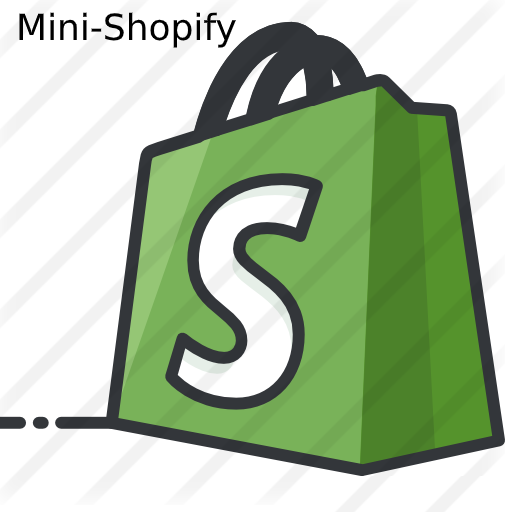
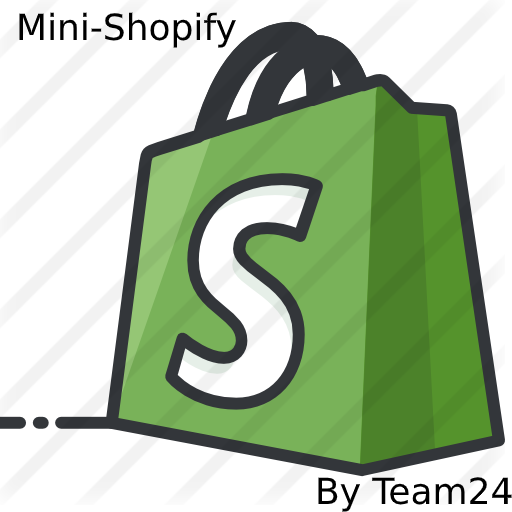
a bit of change

Changed region(s): [[0.5938, 0.9062, 1.0, 1.0]]

diff --git a/src/main/resources/templates/registration.html b/src/main/resources/templates/registration.html
@@ -39,7 +39,7 @@
     </div>
 
     <footer class="footer">
-        <span class="developed-by">Developed by <em><b>Aryan Rashidi-Tabrizi</b></em></span>
+        <span class="developed-by">Developed by <em><b>Team 24</b></em></span>
     </footer>
 
 </body>

diff --git a/src/main/resources/templates/shopList.html b/src/main/resources/templates/shopList.html
@@ -51,7 +51,7 @@
     </div>
 
     <footer class="footer">
-        <span class="developed-by">Developed by <em><b>Aryan Rashidi-Tabrizi</b></em></span>
+        <span class="developed-by">Developed by <em><b>Team 24</b></em></span>
     </footer>
 
 </body>

diff --git a/src/main/resources/templates/error.html b/src/main/resources/templates/error.html
@@ -23,7 +23,7 @@
 </div>
 
 <footer class="footer">
-    <span class="developed-by">Developed by <em><b>Aryan Rashidi-Tabrizi</b></em></span>
+    <span class="developed-by">Developed by <em><b>Team 24</b></em></span>
 </footer>
 </body>
 </html>

diff --git a/src/main/resources/templates/manager.html b/src/main/resources/templates/manager.html
@@ -67,7 +67,7 @@
 </div>
 
 <footer class="footer">
-    <span class="developed-by">Developed by <em><b>Aryan Rashidi-Tabrizi</b></em></span>
+    <span class="developed-by">Developed by <em><b>Team 24</b></em></span>
 </footer>
 </body>
 </html>

diff --git a/src/main/resources/templates/shopManager.html b/src/main/resources/templates/shopManager.html
@@ -62,7 +62,7 @@
 </div>
 
 <footer class="footer">
-    <span class="developed-by">Developed by <em><b>Aryan Rashidi-Tabrizi</b></em></span>
+    <span class="developed-by">Developed by <em><b>Team 24</b></em></span>
 </footer>
 </body>
 </html>

diff --git a/src/main/resources/templates/shopUser.html b/src/main/resources/templates/shopUser.html
@@ -54,7 +54,7 @@
 </div>
 
 <footer class="footer">
-    <span class="developed-by">Developed by <em><b>Aryan Rashidi-Tabrizi</b></em></span>
+    <span class="developed-by">Developed by <em><b>Team 24</b></em></span>
 </footer>
 </body>
 </html>

diff --git a/src/main/resources/templates/cart.html b/src/main/resources/templates/cart.html
@@ -52,7 +52,7 @@
 
 
 <footer class="footer">
-    <span class="developed-by">Developed by <em><b>Aryan Rashidi-Tabrizi</b></em></span>
+    <span class="developed-by">Developed by <em><b>Team 24</b></em></span>
 </footer>
 </body>
 </html>

diff --git a/src/main/resources/templates/purchaseConfirmed.html b/src/main/resources/templates/purchaseConfirmed.html
@@ -26,7 +26,7 @@
 
 
 <footer class="footer">
-    <span class="developed-by">Developed by <em><b>Aryan Rashidi-Tabrizi</b></em></span>
+    <span class="developed-by">Developed by <em><b>Team 24</b></em></span>
 </footer>
 </body>
 </html>
